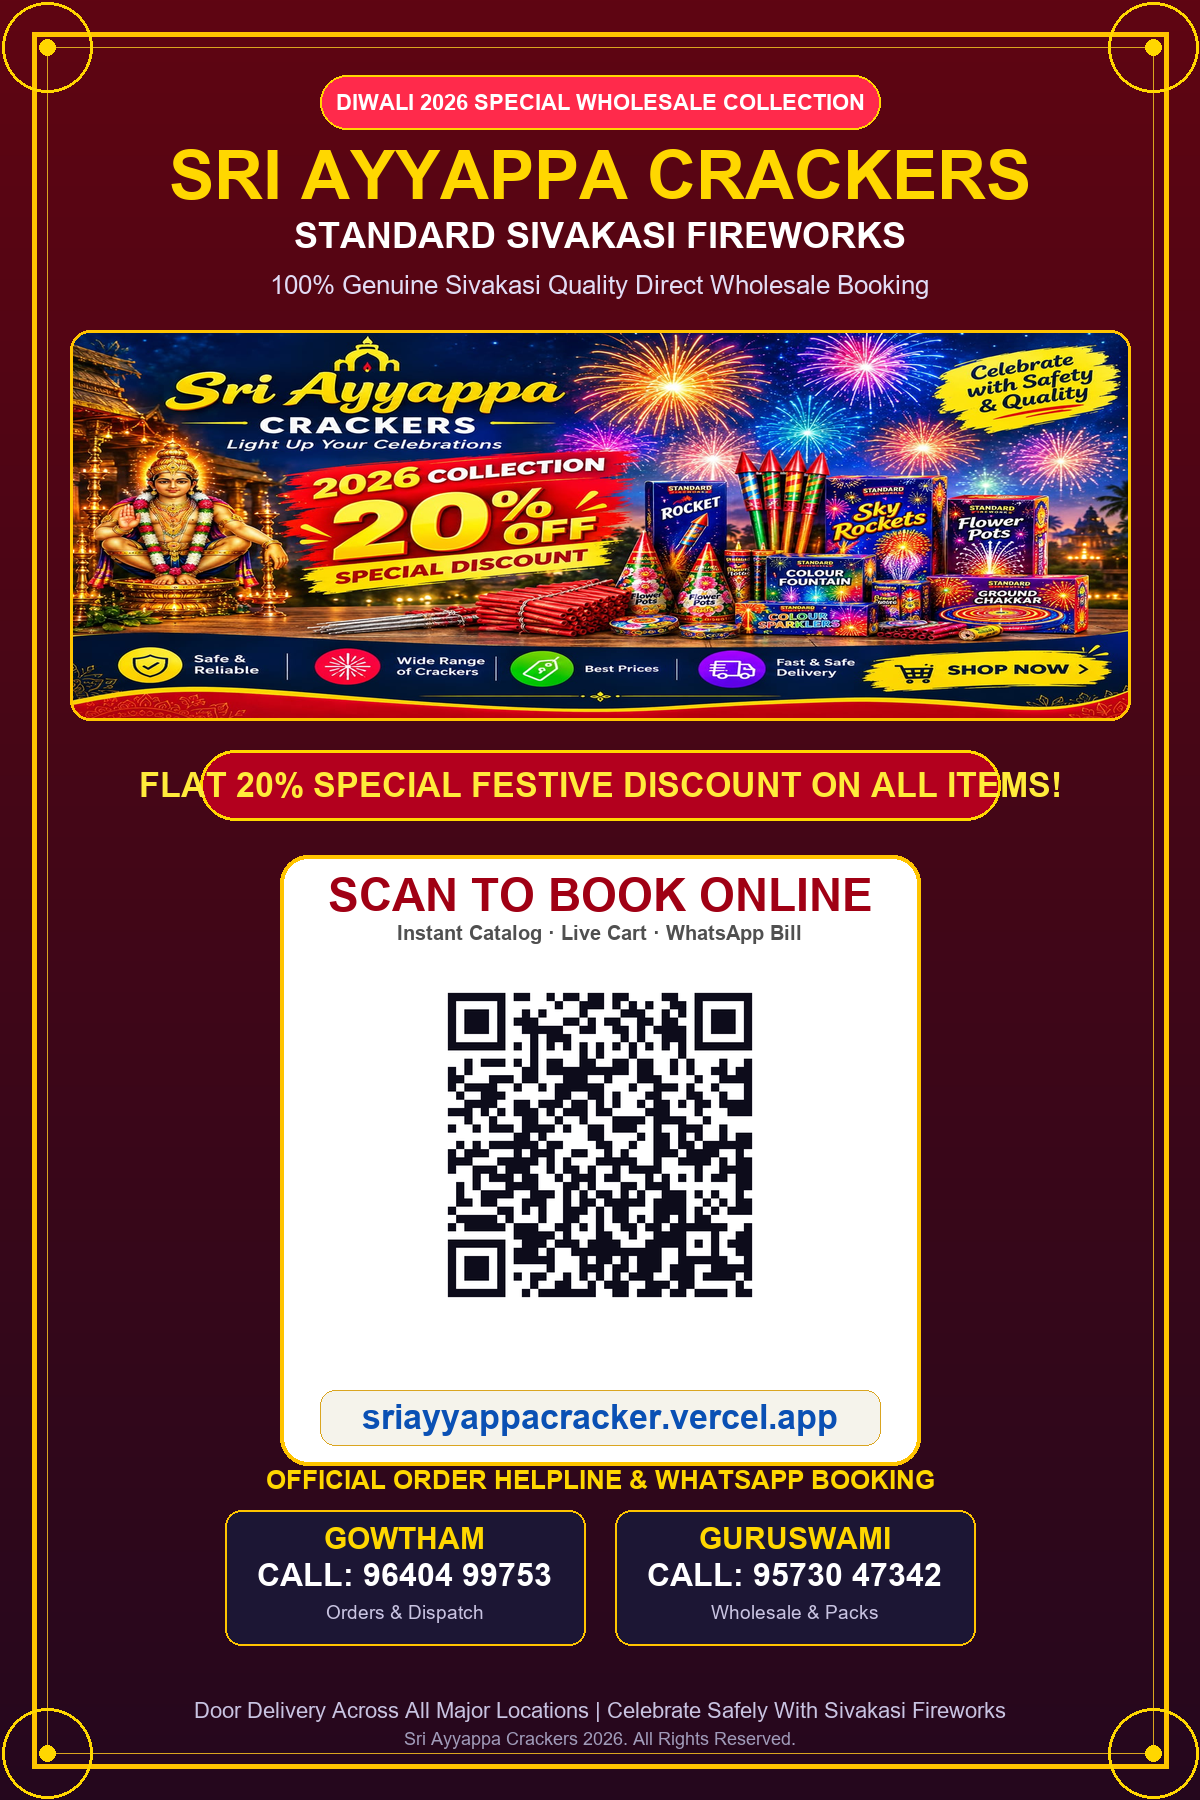
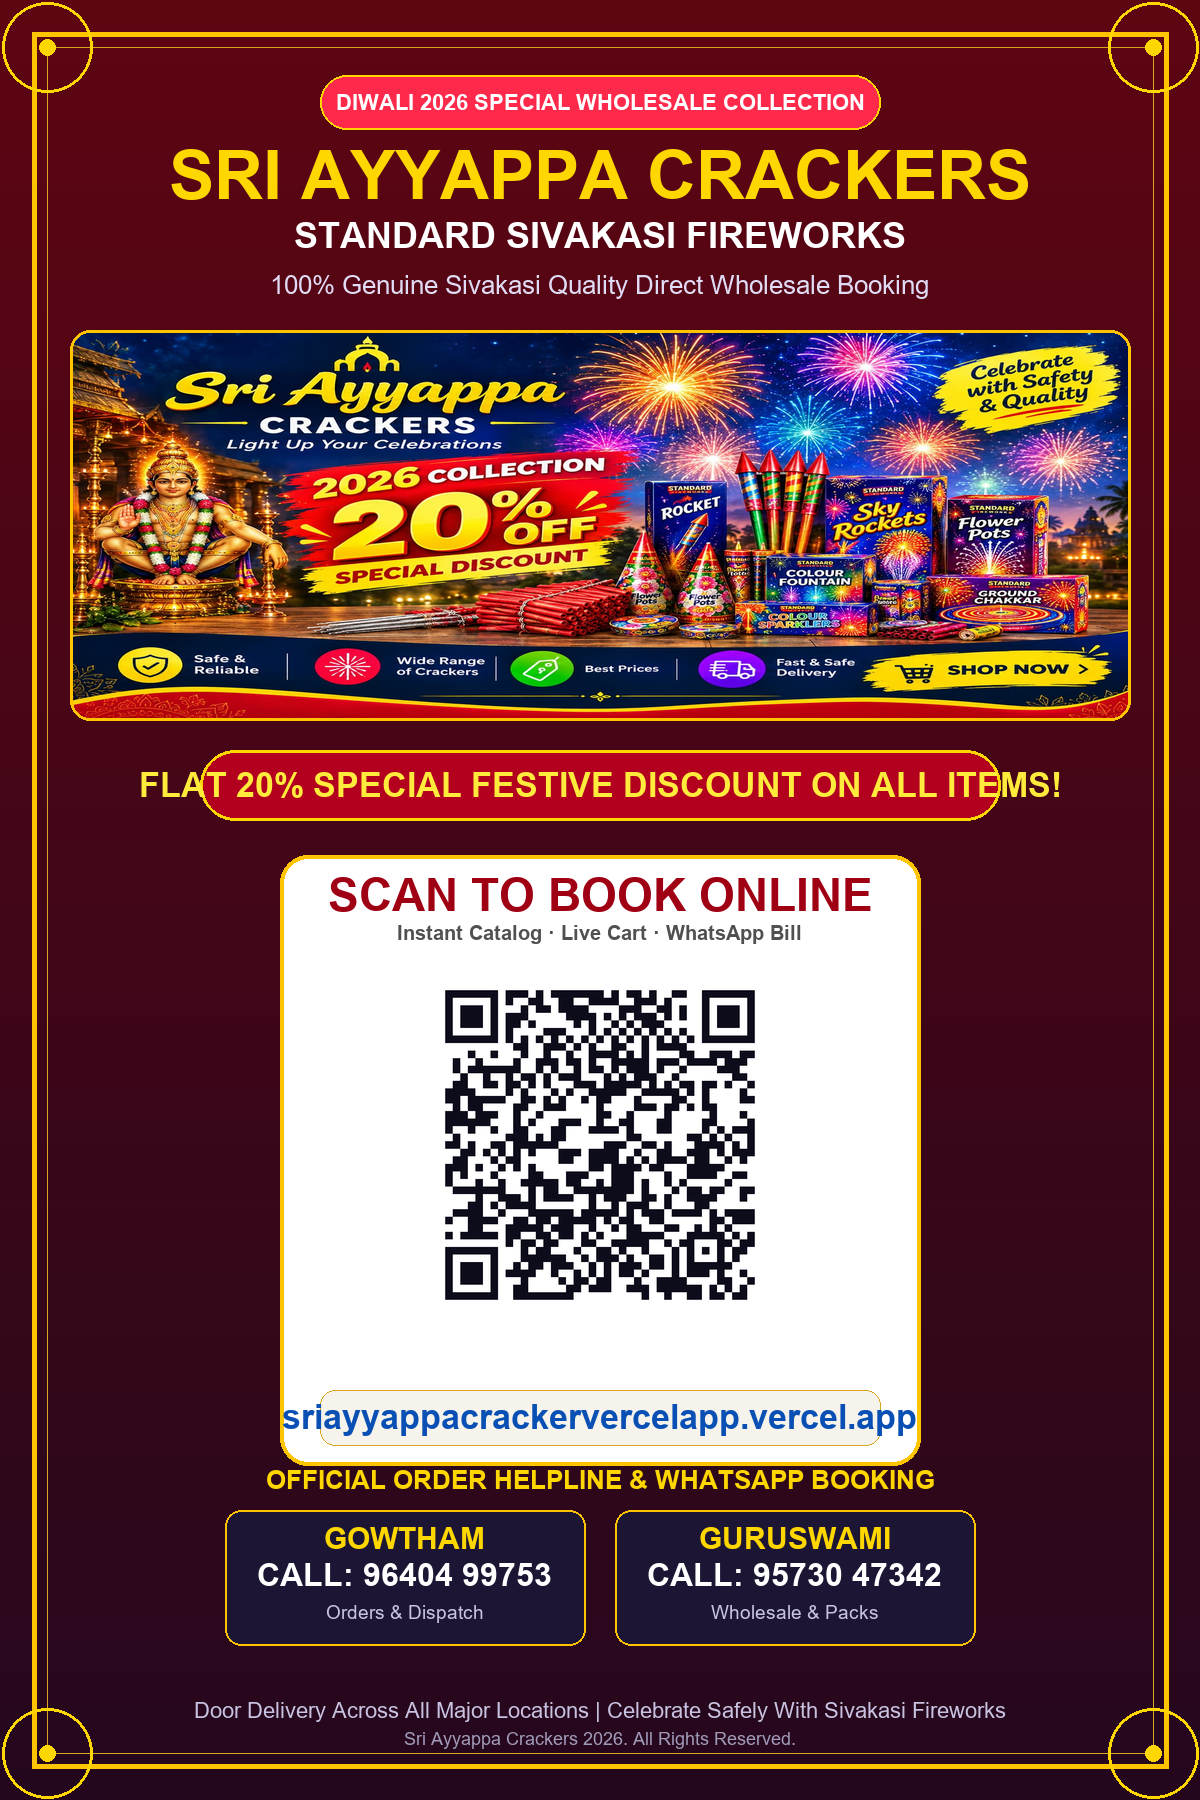
Point QR code and site references to new Vercel URL

Changed region(s): [[0.37, 0.5289, 0.6475, 0.7467], [0.2467, 0.7778, 0.7708, 0.8089]]

diff --git a/index.html b/index.html
@@ -393,7 +393,7 @@
         <div class="qr-standee-info">
           <span class="section-tag">Direct Mobile Booking</span>
           <h2 class="qr-standee-title">Scan QR to <span>Open Website Directly</span></h2>
-          <p class="qr-standee-desc">Scan this official QR code with any smartphone camera, Google Lens, or WhatsApp scanner to immediately open our festive fireworks store on <strong style="color: var(--gold-primary);">sriayyappacracker.vercel.app</strong>, add crackers to cart, and book with flat 20% festive discount!</p>
+          <p class="qr-standee-desc">Scan this official QR code with any smartphone camera, Google Lens, or WhatsApp scanner to immediately open our festive fireworks store on <strong style="color: var(--gold-primary);">sriayyappacrackervercelapp.vercel.app</strong>, add crackers to cart, and book with flat 20% festive discount!</p>
           
           <div class="qr-details-badges">
             <span class="qr-badge">⚡ Instant 2026 Catalog</span>
@@ -421,7 +421,7 @@
           <div class="qr-frame-box">
             <div class="qr-frame-top-tag">🪔 SRI AYYAPPA CRACKERS 🪔</div>
             <img src="images/sri_ayyappa_crackers_qr_code.png" alt="Sri Ayyappa Crackers Official Website QR Code that opens the store when scanned" class="qr-preview-img" width="645" height="645" loading="lazy" decoding="async">
-            <div class="qr-url-pill">sriayyappacracker.vercel.app</div>
+            <div class="qr-url-pill">sriayyappacrackervercelapp.vercel.app</div>
             <span class="qr-scan-hint">📷 Point Camera to Open Website</span>
           </div>
         </div>

diff --git a/scratch/create_qr_banner.py b/scratch/create_qr_banner.py
@@ -4,7 +4,7 @@ import os
 
 def create_qr_and_banner():
     project_dir = r"C:\Users\venka\Downloads\66"
-    target_url = "https://sriayyappacracker.vercel.app"
+    target_url = "https://sriayyappacrackervercelapp.vercel.app"
     
     # 1. Generate High-Res Pure QR Code
     qr = qrcode.QRCode(
@@ -152,7 +152,7 @@ def create_qr_and_banner():
 
     # Website URL below QR code inside card
     draw.rounded_rectangle([qr_card_x + 40, qr_card_y + qr_card_h - 75, qr_card_x + qr_card_w - 40, qr_card_y + qr_card_h - 20], radius=15, fill=(245, 243, 235), outline=(218, 165, 32), width=1)
-    draw.text((width // 2, qr_card_y + qr_card_h - 48), "sriayyappacracker.vercel.app", font=font_url, fill=(10, 80, 180), anchor="mm")
+    draw.text((width // 2, qr_card_y + qr_card_h - 48), "sriayyappacrackervercelapp.vercel.app", font=font_url, fill=(10, 80, 180), anchor="mm")
 
     # Order Helpline Section
     contact_y = 1480
